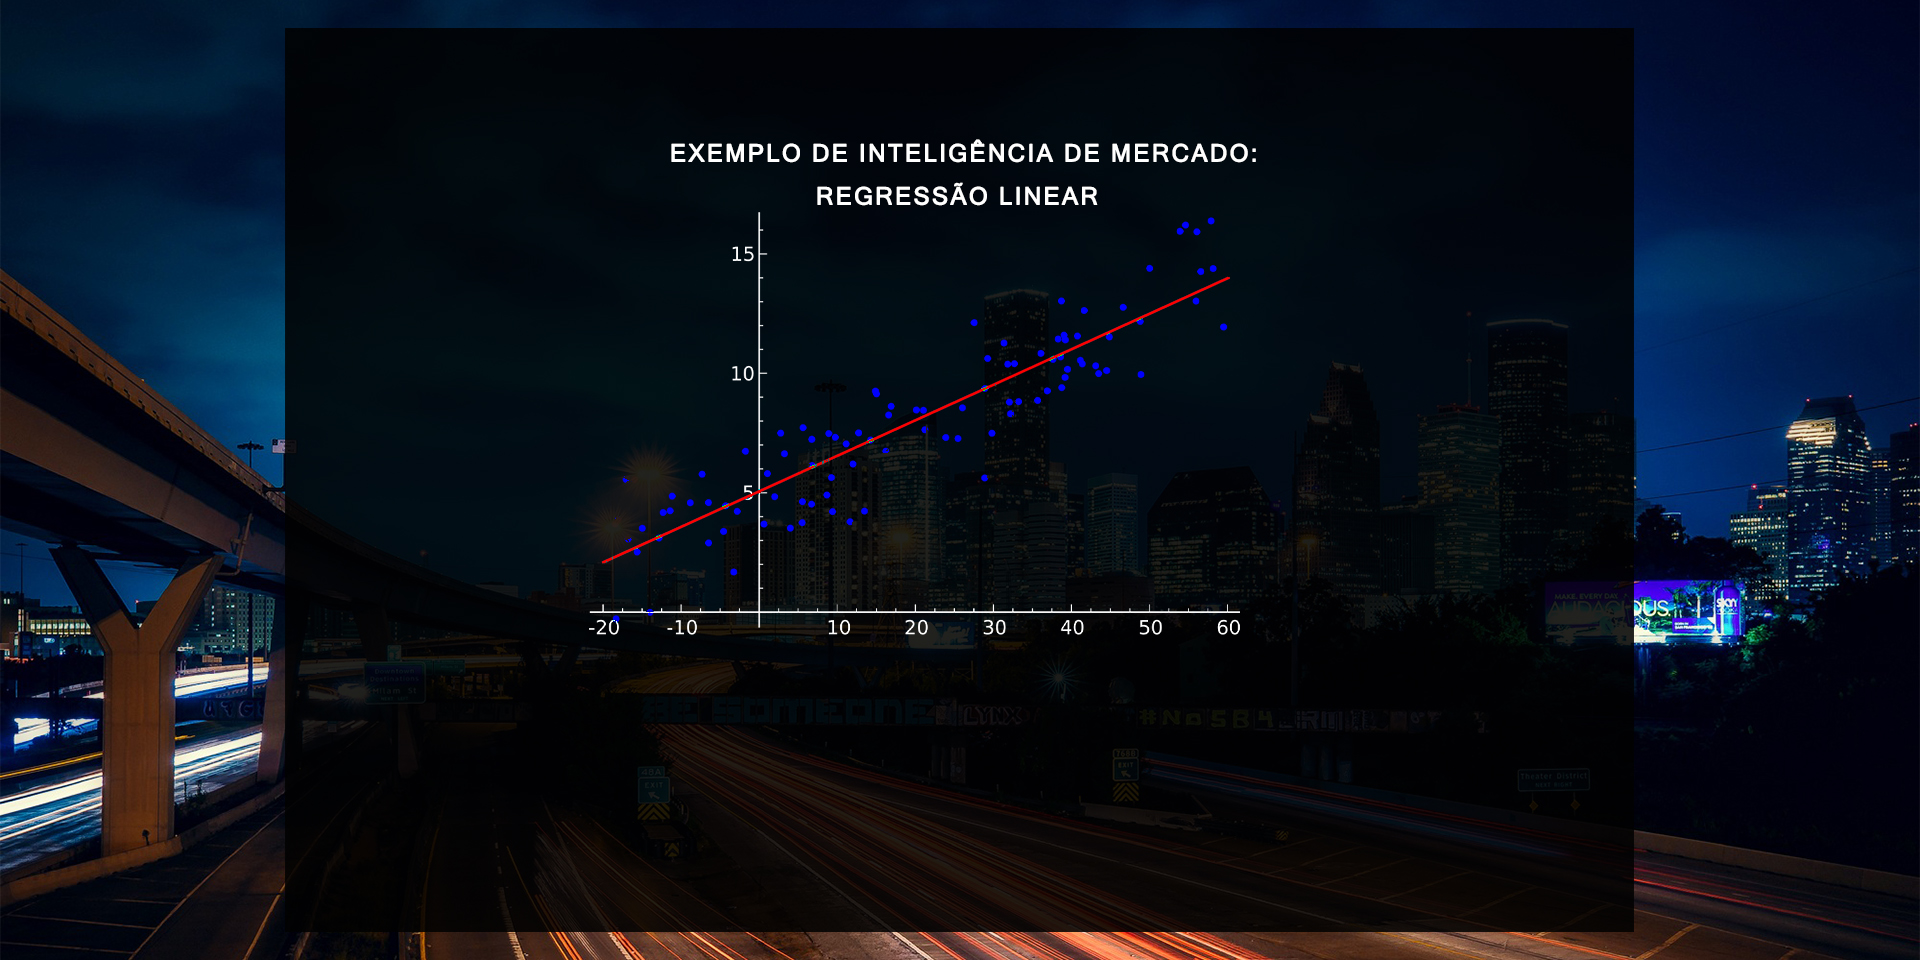
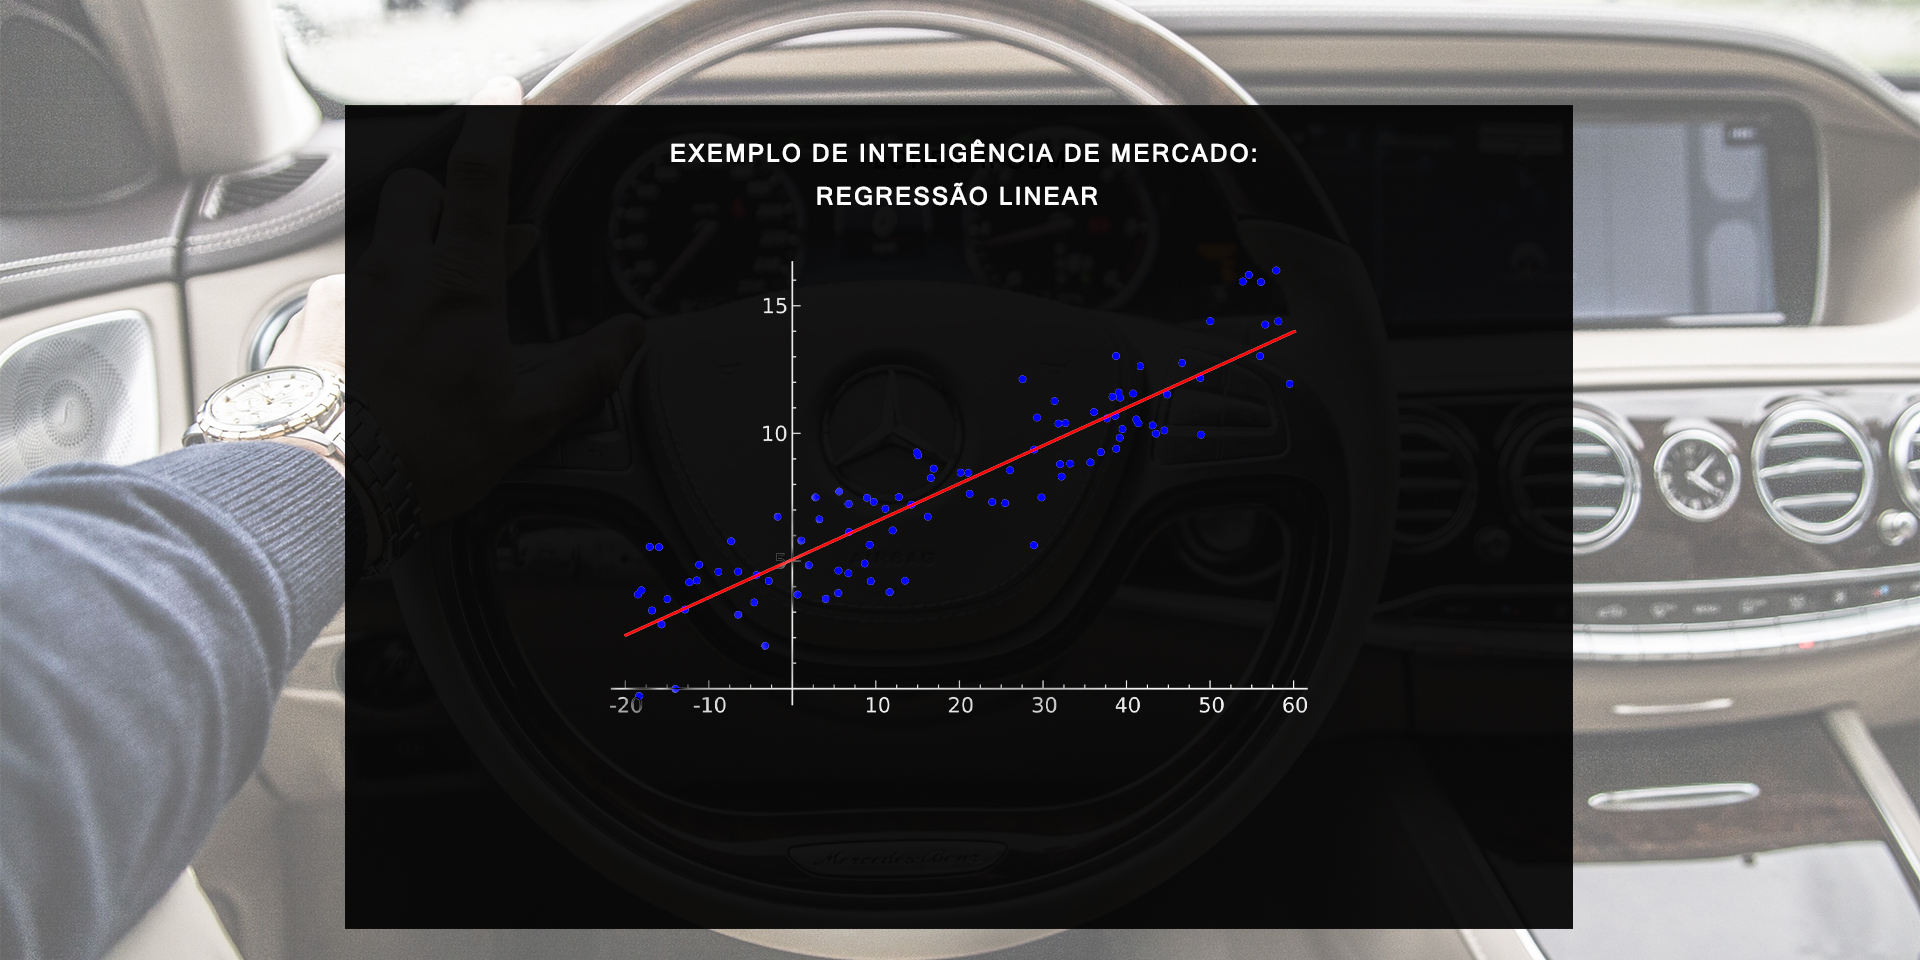
atualizei vários fundos

diff --git a/FlaskCodePacote/Templates/Homepage.html b/FlaskCodePacote/Templates/Homepage.html
@@ -1,7 +1,7 @@
 {% extends "Layout.html" %}
 {% block content %}
 <div id="carouselExampleIndicators" class="carousel slide m-auto" style="height: auto; max-height: 900px;" data-ride="carousel">
-  <ol class="carousel-indicators">
+  <ol class="carousel-indicators mx-auto my-0 text-center" style="width: 30vw;">
     <li data-target="#carouselExampleIndicators" data-slide-to="0" class="active"></li>
     <li data-target="#carouselExampleIndicators" data-slide-to="1"></li>
     <li data-target="#carouselExampleIndicators" data-slide-to="2"></li>
@@ -30,23 +30,25 @@
     </div>
     </div>
     <div class="carousel-item" style="height: auto; max-height: 900px;">
-      <img class="d-block w-100" src="{{ url_for('static', filename='imagens/Homepage-Slide03.jpg')}}" alt="Terceiro Slide" style="opacity: 1">
-      <div class="col-lg mx-auto text-center carousel-caption d-lg-block mb-2">
-      
+      <img class="d-block w-100" src="{{ url_for('static', filename='imagens/Homepage-Slide03.jpg')}}" alt="Terceiro Slide" style="opacity: 1;">
+      <div class="col-lg mx-auto text-center carousel-caption d-lg-block mb-1">
           <h5 class="text-center" style="color:white; font-size: 3vw;"></h5>
-          <p class="text-center mx-auto" style="font-size: 2vw; letter-spacing: 3px; background-color: black; opacity: .9; margin: 0;"> Tabela de inteligência de mercado a ser emitida no site</p> 
+          <p class="text-center mx-auto" style="font-size: 1.4vw; letter-spacing: 3px; background-color: black; opacity: .9;"> Tabela de inteligência de mercado a ser emitida no site</p> 
       </div>
     </div>
     <div class="carousel-item" style="height: auto; max-height: 900px;">
       <img class="d-block w-100" src="{{ url_for('static', filename='imagens/Homepage-Slide04.jpg')}}" alt="Quarto Slide" style="opacity: 1">
-      <div class="carousel-caption d-lg-block">
+      <div class="carousel-caption d-lg-block pb-1 text-center">
     <h5 style="color:white; font-size: 2.5vw;"></h5>
-    <p  style="font-size: 1.5vw; letter-spacing: 1px;">Em seguida, emitiremos uma análise preditiva cuja finalidade é encontrar relações matemáticas entre as variáveis (ex: preço x km rodado)</p>
+        <ol style="font-size: 1.2vw; letter-spacing: 1px; list-style: none;">
+          <li>Em seguida, emitiremos uma análise preditiva cuja finalidade é</li> 
+          <li>encontrar relações matemáticas entre as variáveis (ex: preço x km rodado)</li>
+        </ol>
     </div>
     </div>
        <div class="carousel-item" style="height: auto; max-height: 900px;">
       <img class="d-block w-100" src="{{ url_for('static', filename='imagens/Homepage-Slide05.jpg')}}" alt="Quinto Slide" style="opacity: 1">
-      <div class="carousel-caption d-lg-block">
+      <div class="carousel-caption d-lg-block mb-5">
         <div style="background-color: black; opacity: .9">
     <h5 style="color:white; font-size: 2.5vw;"></h5>
     <p  style="font-size: 1.5vw; letter-spacing: 2px;">Por fim, lançaremos o monitoramento em tempo real das precificações automotivas a fim de ajudar os revendedores a compreenderem a oferta e procura da região.</p>

diff --git a/FlaskCodePacote/Templates/Sobre.html b/FlaskCodePacote/Templates/Sobre.html
@@ -3,17 +3,8 @@
 <div class="container-fluid mt-5" style="background-image: url(static/imagens/Sobre-Background.jpg); background-size: cover; height: 400px; margin: 35px 0 0 0; padding: 9% 0; width: 100%;">
   <div class="col-lg bg-dark" style="opacity: .9">
     <h1 style="padding-left: 60px; letter-spacing: 5px;">Diretrizes da IVG</h1>
-        <ol style="list-style: none; font-size: 12px; margin-left: 30px;">
-        <li>A IVG é uma empresa centralizada na</li>
-        <li>reformulação de dados gerais de mercado, e</li> 
-        <li>também na formulação de novos dados que não</li>
-        <li>são facilmente concluídos por uma mente humana de</li>
-        <li>maneira rápida, e geralmente requerem de sistemas de in-</li>
-        <li>teligência artificial para serem formulados. Como regressões, clas-</li>
-        <li>sificações, clusteres, etc. Ela tambem visa formatar graficos capazes de</li>
-        <li>identificar futuras consequências ou  reações de mercado, extremamente vali-</li>
-        <li>osos para qualquer atuante.</li>
-    </ol>
+        <p style="list-style: none; font-size: 12px; margin-left: 60px; width: 400px;">A IVG é uma empresa centralizada na reformulação de dados gerais de mercado, e também na formulação de novos dados que não são facilmente concluídos por uma mente humana de maneira rápida, e geralmente requerem de sistemas de inteligência artificial para serem formulados. Como regressões, classificações, clusteres, etc. Ela tambem visa formatar graficos capazes de
+        identificar futuras consequências ou  reações de mercado, extremamente valiosos para qualquer atuante.</p>
   </div>
   <div class="" style="max-width: 1000px;">
   </div>

diff --git a/FlaskCodePacote/static/css/main.css b/FlaskCodePacote/static/css/main.css
@@ -7,7 +7,7 @@
 body {
   background-color: #141414;
   color: white;
-  margin-top: 5rem;
+  margin-top: 120px;
   animation: Transição 50ms;
 }
 
@@ -111,10 +111,6 @@ padding: 10% 0;
 .carousel{
   margin: -50px 0 0px;
 }
-.d-block .w-100{
-  position: center;
-  margin: 10px;
-}
 .carousel-caption{
   margin: 0px 0;
   padding: 0px;
@@ -146,7 +142,7 @@ padding: 10% 0;
 /*Tags do FAQ*/
 .accordion-button:not(.collapsed) {
   color: #0c63e4;
-  background-color: #1363D4;
+  background-color: #74A4F7;
 }
 
 /*Tags do Sobre*/

diff --git a/FlaskCodePacote/Templates/Layout.html b/FlaskCodePacote/Templates/Layout.html
@@ -56,7 +56,7 @@
           </div>
     </div>
   </header>
-  <main role="main" class="container-fluid">
+  <main role="main" class="container-fluid m-0">
     <div class="row">
         <div class="col">
           {% with messages = get_flashed_messages(with_categories=true) %}
